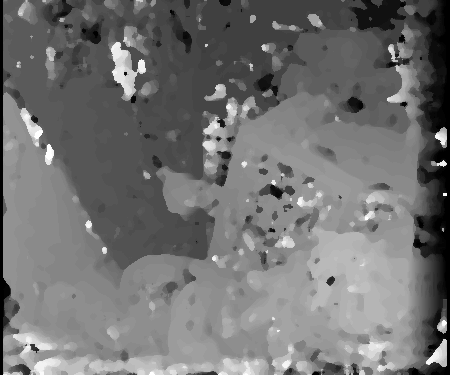
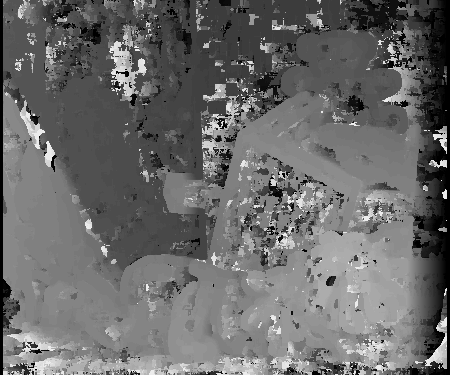
adding new disparity map results

diff --git a/disparity_map.cpp b/disparity_map.cpp
@@ -4,17 +4,17 @@
 #include <iostream>
 #include <ctime>
 // Best result SAD with Window = 7
-#define WINDOW_SIZE 3
-#define DISPARITY_INTERVAL 15
+#define WINDOW_SIZE 11
+#define DISPARITY_INTERVAL 59
 // Interval
 //TEDDY 59
 //CONES 59
 //VENUS 19
 //TSUKUBA 15
 
-#define SET "tsukuba"
-#define METHOD "ssd"
-#define SCALE 16
+#define SET "teddy"
+#define METHOD "ncc"
+#define SCALE 4
 // Scale
 //TEDDY 4
 //CONES 4
